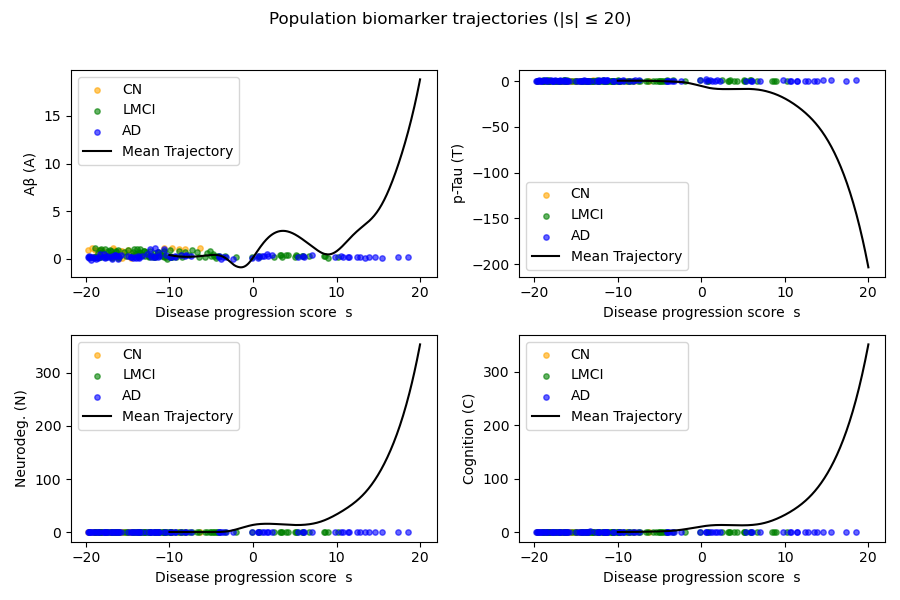
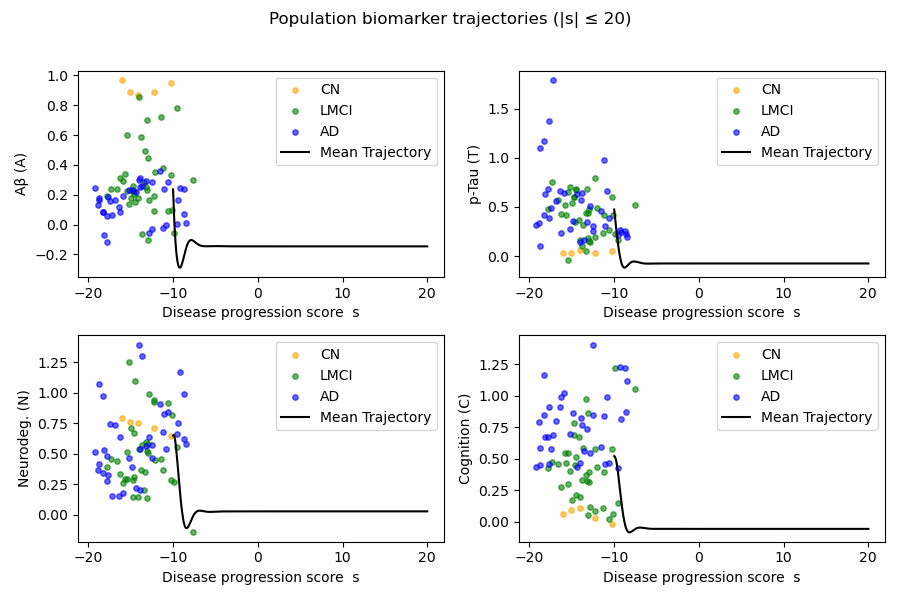
模型复杂度太高了，我还是撤回吧

diff --git a/nerual_network.py b/nerual_network.py
@@ -90,7 +90,7 @@ def calculate_sequential_loss(model, dat, ab_pid_theta, sigma=None):
     y_actuals = torch.stack(y_actuals)
     
     # Calculate Mean Squared Error for this patient
-    loss = (y_preds - y_actuals)**2
+    loss = torch.exp(abs(y_preds - y_actuals))**2
     if sigma is not None:
         loss = loss / sigma
     
@@ -115,7 +115,7 @@ def calculate_global_loss(model, dat, ab_pid_theta, sigma=None):
     y_pred_trajectory = model(s, y0)
     y_actual_trajectory = dat['y']
     
-    loss = (y_pred_trajectory - y_actual_trajectory)**2
+    loss = torch.exp(abs(y_pred_trajectory - y_actual_trajectory))**2
     if sigma is not None:
         loss = loss / sigma
         
